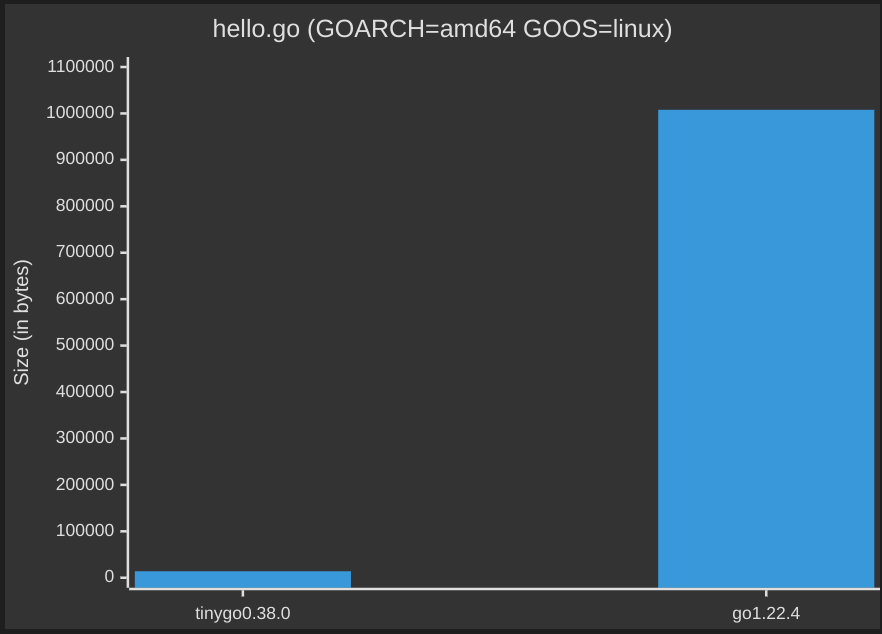
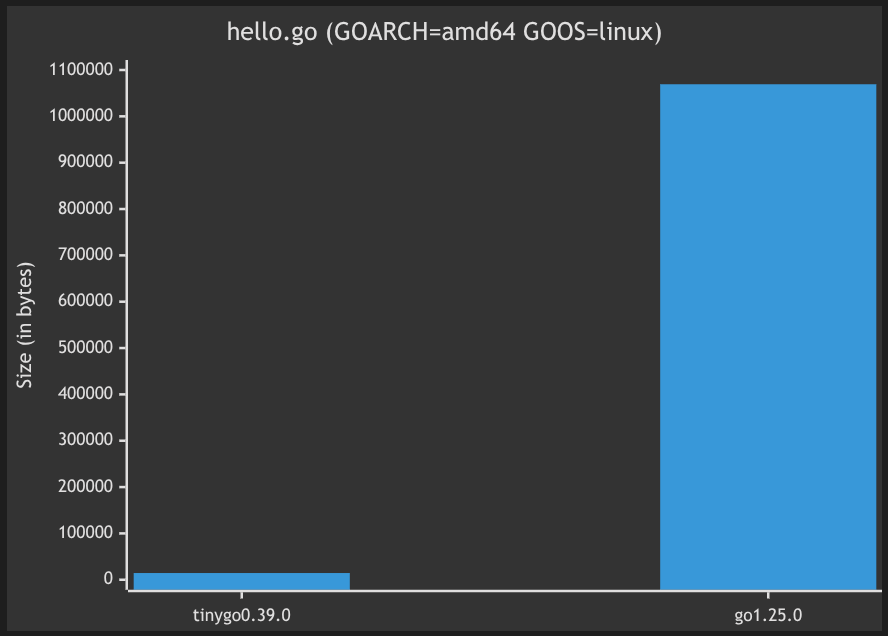
all: updated for most recent events

diff --git a/index.html b/index.html
@@ -80,83 +80,78 @@
 		</section>
 
 		<section>
-			<section>
-				<h2>Current stats</h2>
-			</section>
-
-			<section>
-				<h2>16k+ stars</h2>
-			</section>
-
-			<section>
-				<h2>950+ forks</h2>
-			</section>
-
-			<section>
-				<h2>250+ contributors</h2>
-			</section>
-
-			<section>
-				<h2>Over 125 different boards supported</h2>
-			</section>
-
-			<section>
-				<h2>Over 120 different sensors/displays/wireless devices/actuators supported</h2>
-			</section>
+			<h2>Current stats</h2>
 		</section>
 
 		<section>
-			<section>
-				<h2>TinyGo Release 0.39 Highlights</h2>
-			</section>
-
-			<section>
-				<h2>Go 1.25 support</h2>
-			</section>
-
-			<section>
-				<h2>Multicore on RP2350 Microcontroller</h2>
-			</section>
-
-			<section>
-				<h2>Lots more stdlib packages compiling</h2>
-			</section>
+			<h2>16k+ stars</h2>
 		</section>
 
 		<section>
-			<section>
-				<h2>Weighing In</h2>
-				<h3>Binary sizes for latest "Big Go" (1.25.0) and TinyGo (0.39)</h3>
-			</section>
-			<section>
-				<pre><code class="golang">
+			<h2>980+ forks</h2>
+		</section>
+
+		<section>
+			<h2>250+ contributors</h2>
+		</section>
+
+		<section>
+			<h2>Over 125 different boards supported</h2>
+		</section>
+
+		<section>
+			<h2>Over 120 different sensors/displays/wireless devices/actuators supported</h2>
+		</section>
+
+		<section>
+			<h2>TinyGo Release 0.39 Highlights</h2>
+		</section>
+
+		<section>
+			<h2>Go 1.25 support</h2>
+		</section>
+
+		<section>
+			<h2>Multicore on RP2350 Microcontroller</h2>
+		</section>
+
+		<section>
+			<h2>Many more stdlib packages can compile</h2>
+		</section>
+
+		<section>
+			<h2>Weighing In</h2>
+			<h3>Binary sizes for "Big Go" (1.25.0) and TinyGo (0.39)</h3>
+		</section>
+		<section>
+			<pre><code class="golang">
 package main
 
 func main() {
 	println("Hello world!")
 }
-				</code></pre>
-				<h3>hello.go</h3>
-			</section>
-			<section>
-				<code>
-1007800 jun 18 07:57 hello-biggo
-				</code>
-			</section>
-			<section>
-				<code>
-13968 jun 18 07:49 hello-tinygo
-				</code>
-			</section>
-			<section>
-				<div class="image-container">
-					<img src="./images/hello-size.png">
-				</div>
-				<h2>72x smaller</h2>
-			</section>
+			</code></pre>
+			<h3>hello.go</h3>
+		</section>
+		<section>
+			<code>
+1069240 ago 19 19:44 hello-biggo-1.25
+			</code>
+		</section>
+		<section>
+			<code>
+14488 ago 19 19:41 hello-tinygo-0.39
+			</code>
+		</section>
+		<section>
+			<div class="image-container">
+				<img src="./images/hello-size.png">
+			</div>
+			<h2>73x smaller</h2>
+		</section>
 
-			<section>
-				<pre><code class="golang">
+		<section>
+			<pre><code class="golang">
 package main
 
 import (
@@ -174,26 +169,25 @@ func main() {
 		panic(err)
 	}
 }										
-				</code></pre>
-				<h3>hello-wasi.go</h3>
-				<h4>wasmbyexample.dev</h4>
-			</section>
-			<section>
-				<code>
-2492982 jun 18 07:59 hello-wasi-biggo.wasm
-				</code>
-			</section>
-			<section>
-				<code>
-80388 jun 18 07:47 hello-wasi-tinygo.wasm
-				</code>
-			</section>
-			<section>
-				<div class="image-container">
-					<img src="./images/hello-wasi-size.png">
-				</div>
-				<h2>31x smaller</h2>
-			</section>
+			</code></pre>
+			<h3>hello-wasi.go</h3>
+			<h4>wasmbyexample.dev</h4>
+		</section>
+		<section>
+			<code>
+2555354 ago 19 19:48 hello-wasi-biggo-1.25
+			</code>
+		</section>
+		<section>
+			<code>
+80127 ago 19 19:49 hello-wasi-tinygo-0.39
+			</code>
+		</section>
+		<section>
+			<div class="image-container">
+				<img src="./images/hello-wasi-size.png">
+			</div>
+			<h2>31x smaller</h2>
 		</section>
 
 		<section>
@@ -237,6 +231,9 @@ func main() {
 		</section>
 
 		<section>
+			<div class="image-container">
+				<img src="./images/tinygo-conf-jp.png">
+			</div>
 			<h2>TinyGo Conference 2025 - Japan</h2>
 			<h3>Akihabara (Tokyo) - Oct. 12, 2025</h3>
 			<h3><a href="https://conf.tinygo-keeb.org/2025" target="_blank">conf.tinygo-keeb.org/2025</a></h3>
@@ -294,6 +291,14 @@ func main() {
 		</section>
 
 		<section>
+			<div class="image-container">
+				<img src="./images/made-2-games-cover.png">
+			</div>
+			<h2>"Making Games in Go: 3 Months Without LLMs vs 3 Days With LLMs!"</h2>
+			<h3><a href="https://marianogappa.github.io/software/2025/08/24/i-made-two-card-games-in-go/" target="_blank">marianogappa.github.io/software/2025/08/24/i-made-two-card-games-in-go</a></h3>
+		</section>
+
+		<section>
 			<h2>All About The Hardware</h2>
 		</section>
 
@@ -313,15 +318,6 @@ func main() {
 			<h2>Hoard of the rings</h2>
 			<h3>extracting data from Colmi BLE annular activity trackers</h3>
 			<h3><a href="https://blog.smittytone.net/2025/04/09/hoard-of-the-rings-colmi" target="_blank">blog.smittytone.net/2025/04/09/hoard-of-the-rings-colmi</a></h3>
-		</section>
-
-		<section>
-			<div class="image-container">
-				<img src="./images/eclairm0.webp">
-			</div>
-			<h2>Eclair M0</h2>
-			<h3>pocket notepad</h3>
-			<h3><a href="https://mateusznowak.dev/projects/eclair-pocket-notepad" target="_blank">mateusznowak.dev/projects/eclair-pocket-notepad</a></h3>
 		</section>
 
 		<section>
@@ -366,26 +362,19 @@ func main() {
 		</section>
 
 		<section>
-			<section>
-				<h2>Hardware Hack Session</h2>
-				<h3>Day 1</h3>
-			</section>
+			<h2>Hardware Hack Session</h2>
+			<h3>Day 1</h3>
+		</section>
 
- 			<section data-background-image="./images/gophercon-2025-day1.jpg" data-background-size="contain">
-			</section>
+		<section data-background-image="./images/gopherconus-2025-day1.jpg" data-background-size="contain">
 		</section>
 
 		<section>
-			<section>
-				<h2>"An Operating System in Go"</h2>
-				<h3>Patricio (@soypat)</h3>
-			</section>
+			<h2>"An Operating System in Go"</h2>
+			<h3>Patricio (@soypat)</h3>
+		</section>
 
- 			<section data-background-image="./images/mandelbrot-before.gif" data-background-size="contain">
-			</section>
-
- 			<section data-background-image="./images/mandelbrot-after.gif" data-background-size="contain">
-			</section>
+		<section data-background-image="./images/mandelbrot-after.gif" data-background-size="contain">
 		</section>
 
 		<section>

diff --git a/diagrams/sizes.md b/diagrams/sizes.md
@@ -6,15 +6,15 @@ https://mermaid.js.org/syntax/xyChart.html
 ```mermaid
 xychart-beta
     title "hello.go (GOARCH=amd64 GOOS=linux)"
-    x-axis [tinygo0.38.0, go1.22.4]
+    x-axis [tinygo0.39.0, go1.25.0]
     y-axis "Size (in bytes)" 0 --> 1100000
-    bar [13968, 1007800]
+    bar [14488, 1069240]
 ```
 
 ```mermaid
 xychart-beta
     title "hello-wasi.go (GOARCH=wasm GOOS=wasip1)"
-    x-axis [tinygo0.38.0, go1.22.4]
+    x-axis [tinygo0.39.0, go1.25.0]
     y-axis "Size (in bytes)" 0 --> 2600000
-    bar [80388, 2540172]
+    bar [80127, 2555354]
 ```
